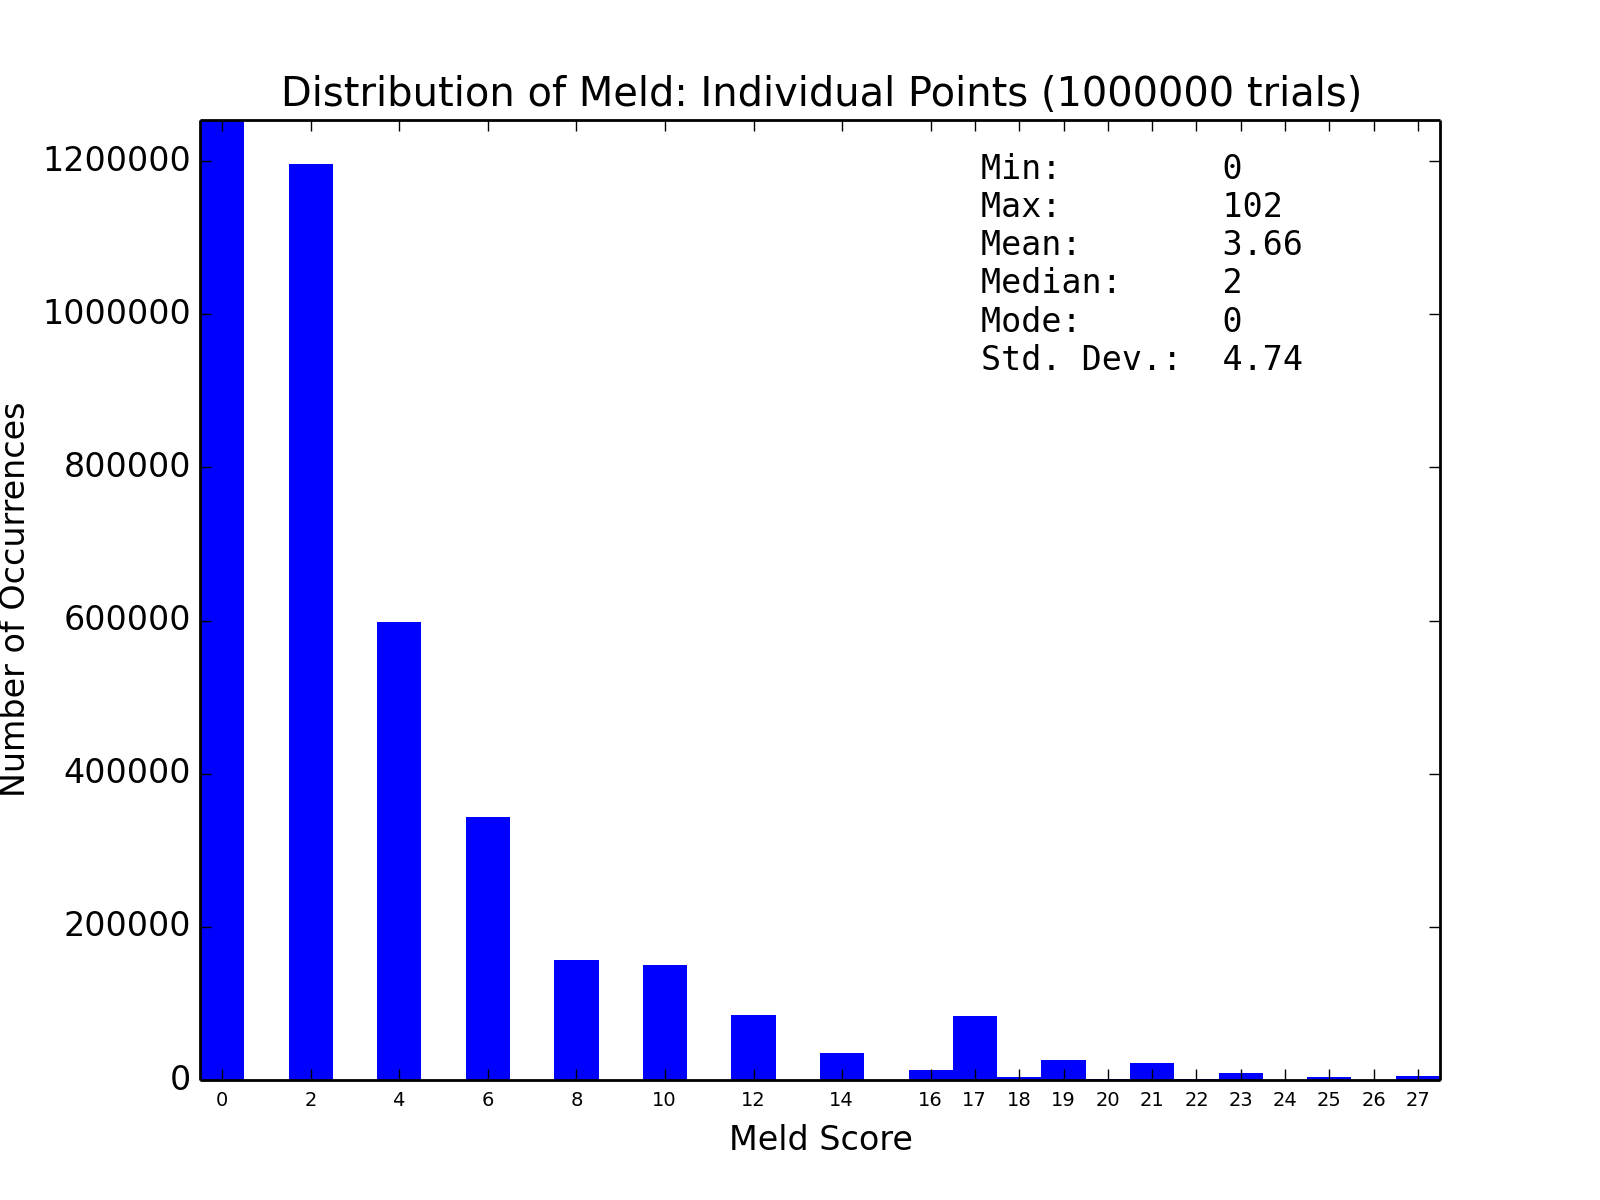
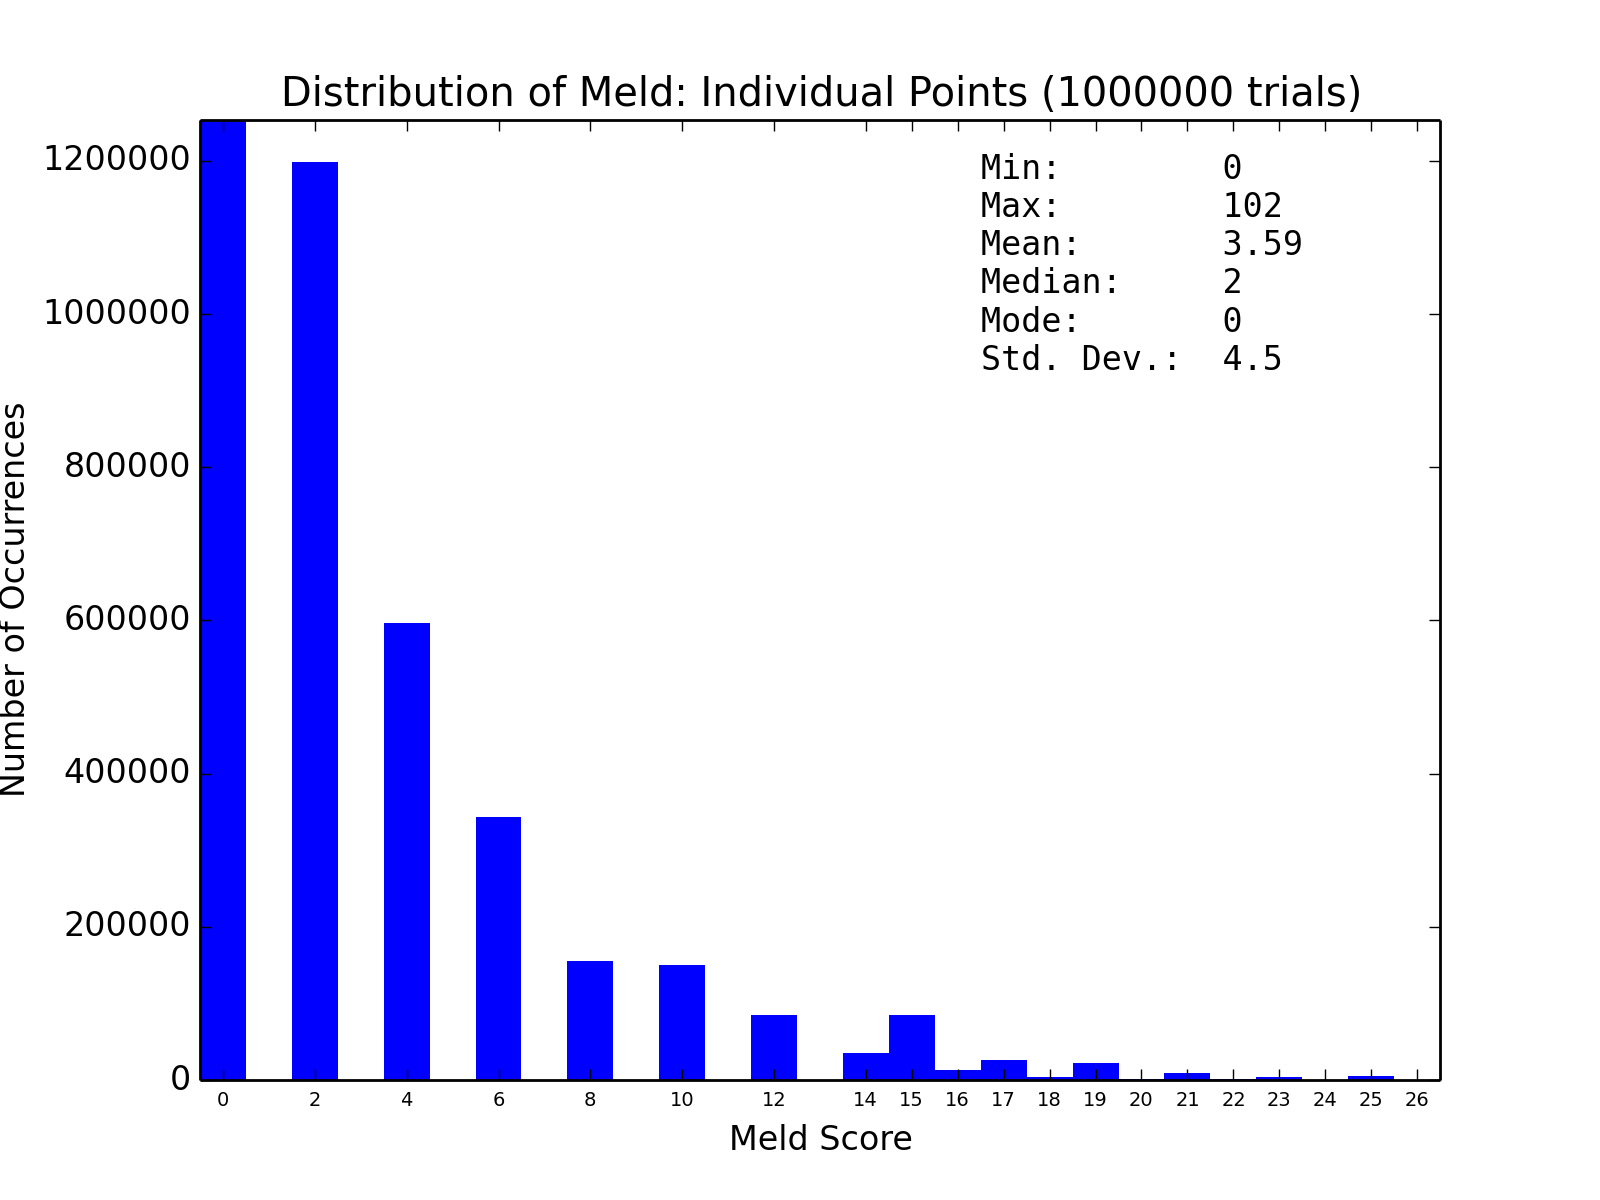
Fix broken scoring due to double counting issue

diff --git a/config.py b/config.py
@@ -7,6 +7,7 @@ occurrences = 2
 
 meldHands = {
     #Name: ([card list], points, occurrences required for each card)
+    #Note: Points will be double counted, so reduce the value of higher combinations to account for double counting
     'Round Of Aces': (['AC','AD','AH','AS'], 10, 1),
     'Round Of Kings': (['KC','KD','KH','KS'], 8, 1),
     'Round Of Queens': (['QC','QD','QH','QS'], 6, 1),
@@ -23,14 +24,14 @@ meldHands = {
     'Double Marriage Hearts': (['KH', 'QH'], 2, 2),
     'Marriage Spades': (['KS', 'QS'], 2, 1),
     'Double Marriage Spades': (['KS', 'QS'], 2, 2),
-    'Run in Clubs': (['JC','QC','KC','10C','AC'], 15, 1),
-    'Run in Diamonds': (['JD','QD','KD','10D','AD'], 15, 1),
-    'Run in Hearts': (['JH','QH','KH','10H','AH'], 15, 1),
-    'Run in Spades': (['JS','QS','KS','10S','AS'], 15, 1),
-    'Double Run in Clubs': (['JC','QC','KC','10C','AC'], 135, 2),
-    'Double Run in Diamonds': (['JD','QD','KD','10D','AD'], 135, 2),
-    'Double Run in Hearts': (['JH','QH','KH','10H','AH'], 135, 2),
-    'Double Run in Spades': (['JS','QS','KS','10S','AS'], 135, 2),
+    'Run in Clubs': (['JC','QC','KC','10C','AC'], 13, 1), #subtract 2 for double counting marriage
+    'Run in Diamonds': (['JD','QD','KD','10D','AD'], 13, 1), #subtract 2 for double counting marriage
+    'Run in Hearts': (['JH','QH','KH','10H','AH'], 13, 1), #subtract 2 for double counting marriage
+    'Run in Spades': (['JS','QS','KS','10S','AS'], 13, 1), #subtract 2 for double counting marriage
+    'Double Run in Clubs': (['JC','QC','KC','10C','AC'], 133, 2), #subtract 2 for double counting marriage
+    'Double Run in Diamonds': (['JD','QD','KD','10D','AD'], 133, 2), #subtract 2 for double counting marriage
+    'Double Run in Hearts': (['JH','QH','KH','10H','AH'], 133, 2), #subtract 2 for double counting marriage
+    'Double Run in Spades': (['JS','QS','KS','10S','AS'], 133, 2), #subtract 2 for double counting marriage
     'Pinochle': (['QS','JD'], 4, 1),
     'Double Pinochle': (['QS','JD'], 26, 2)
 }
